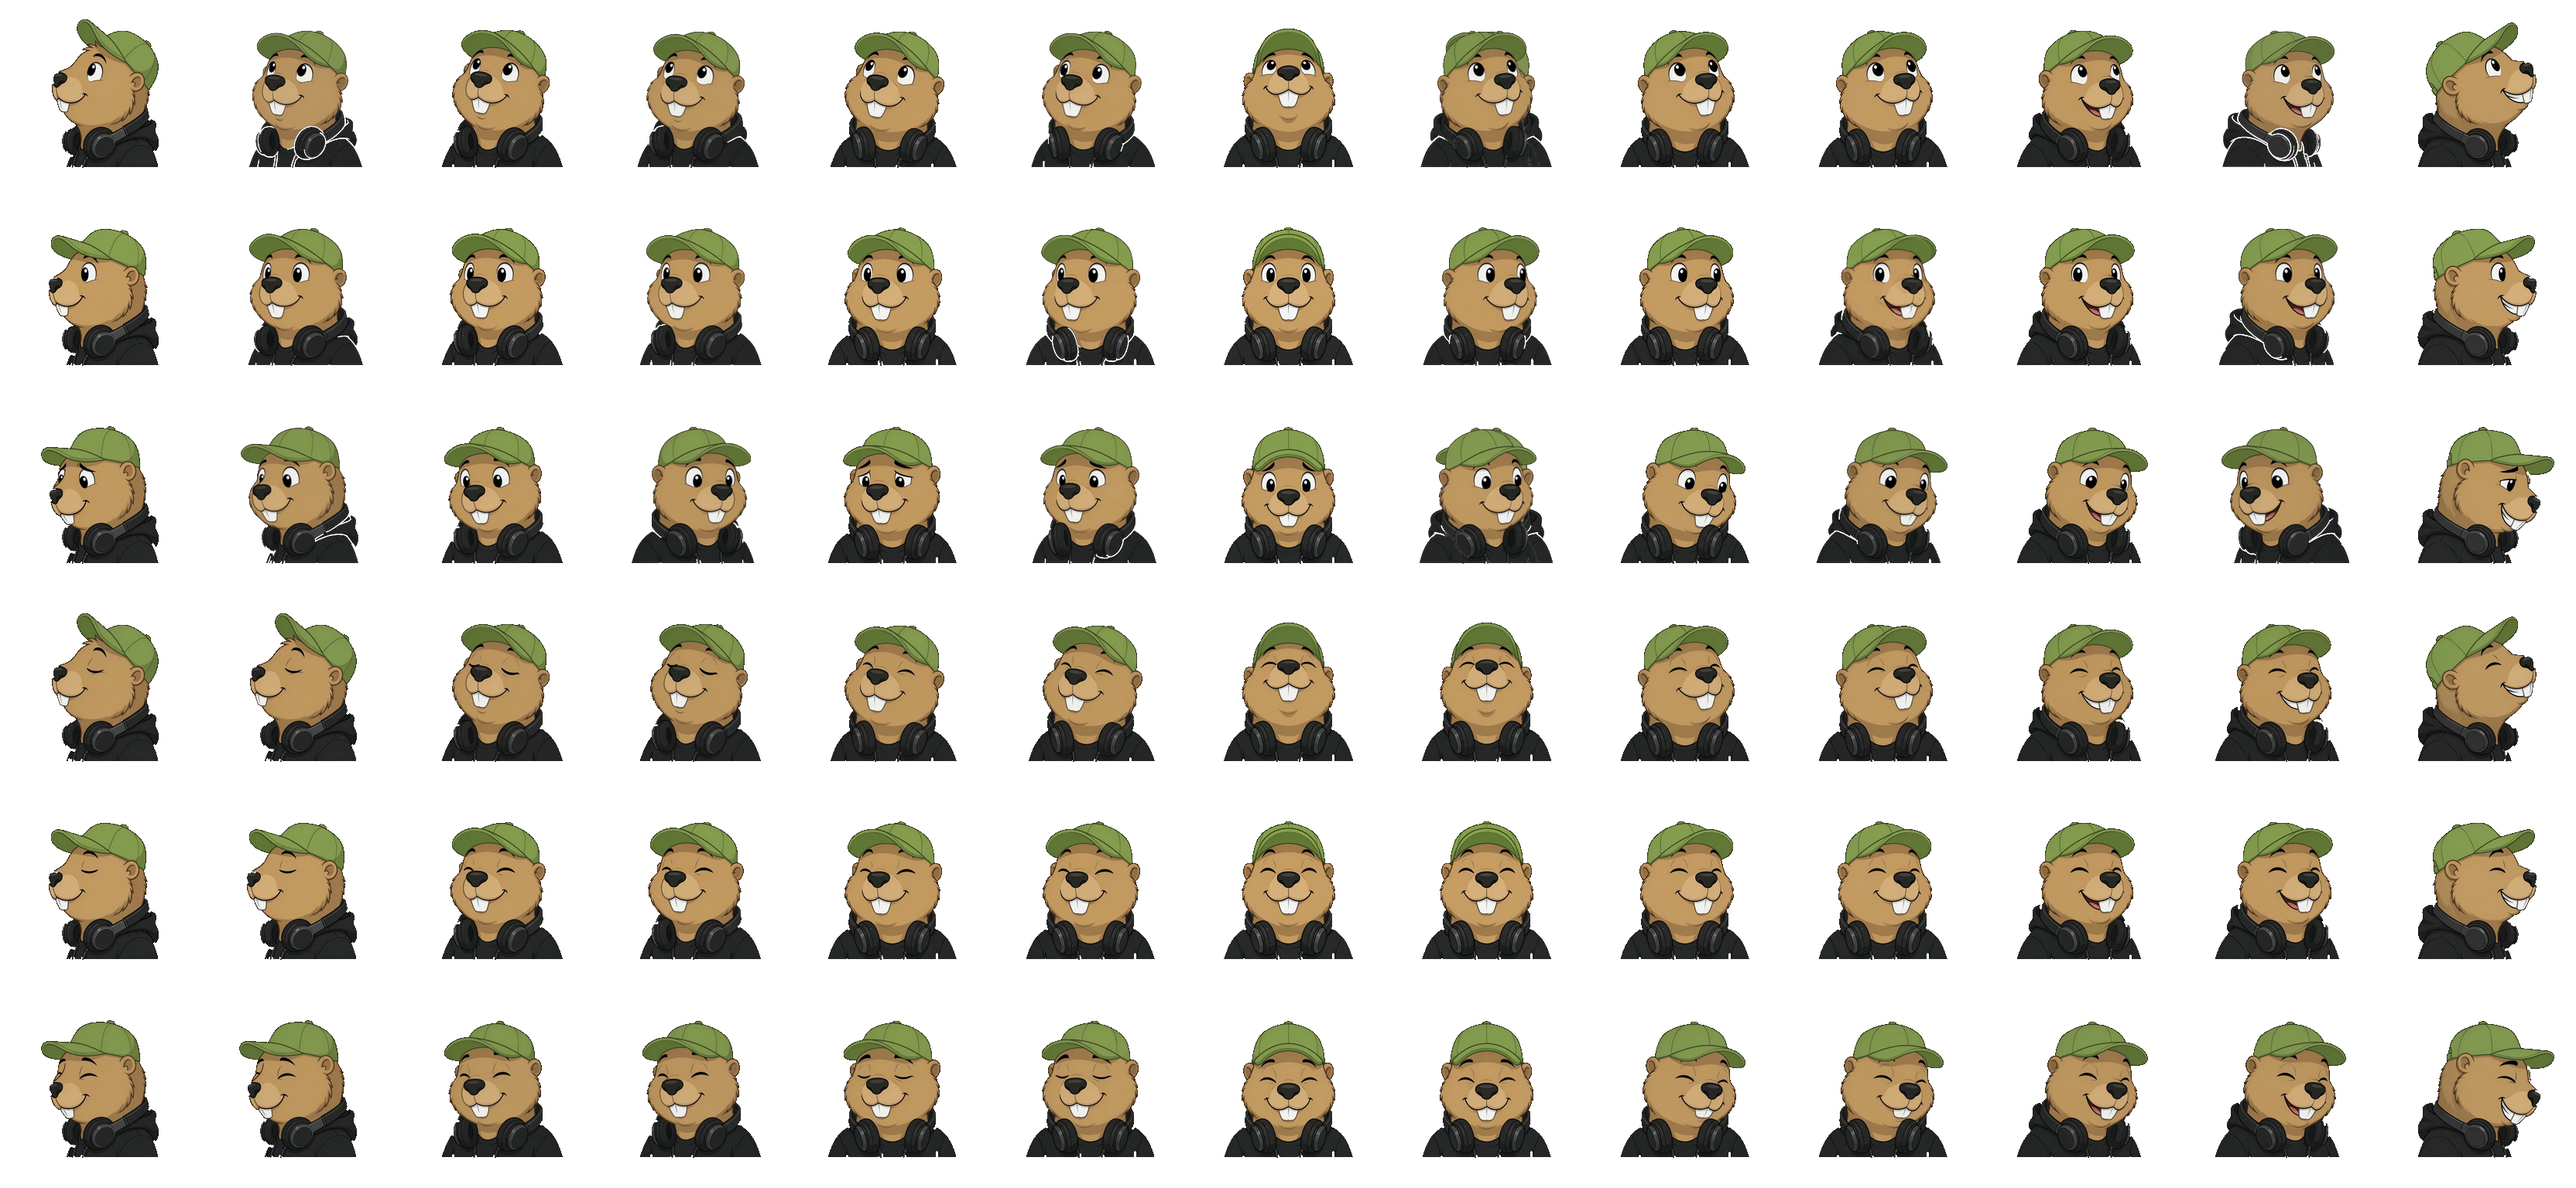
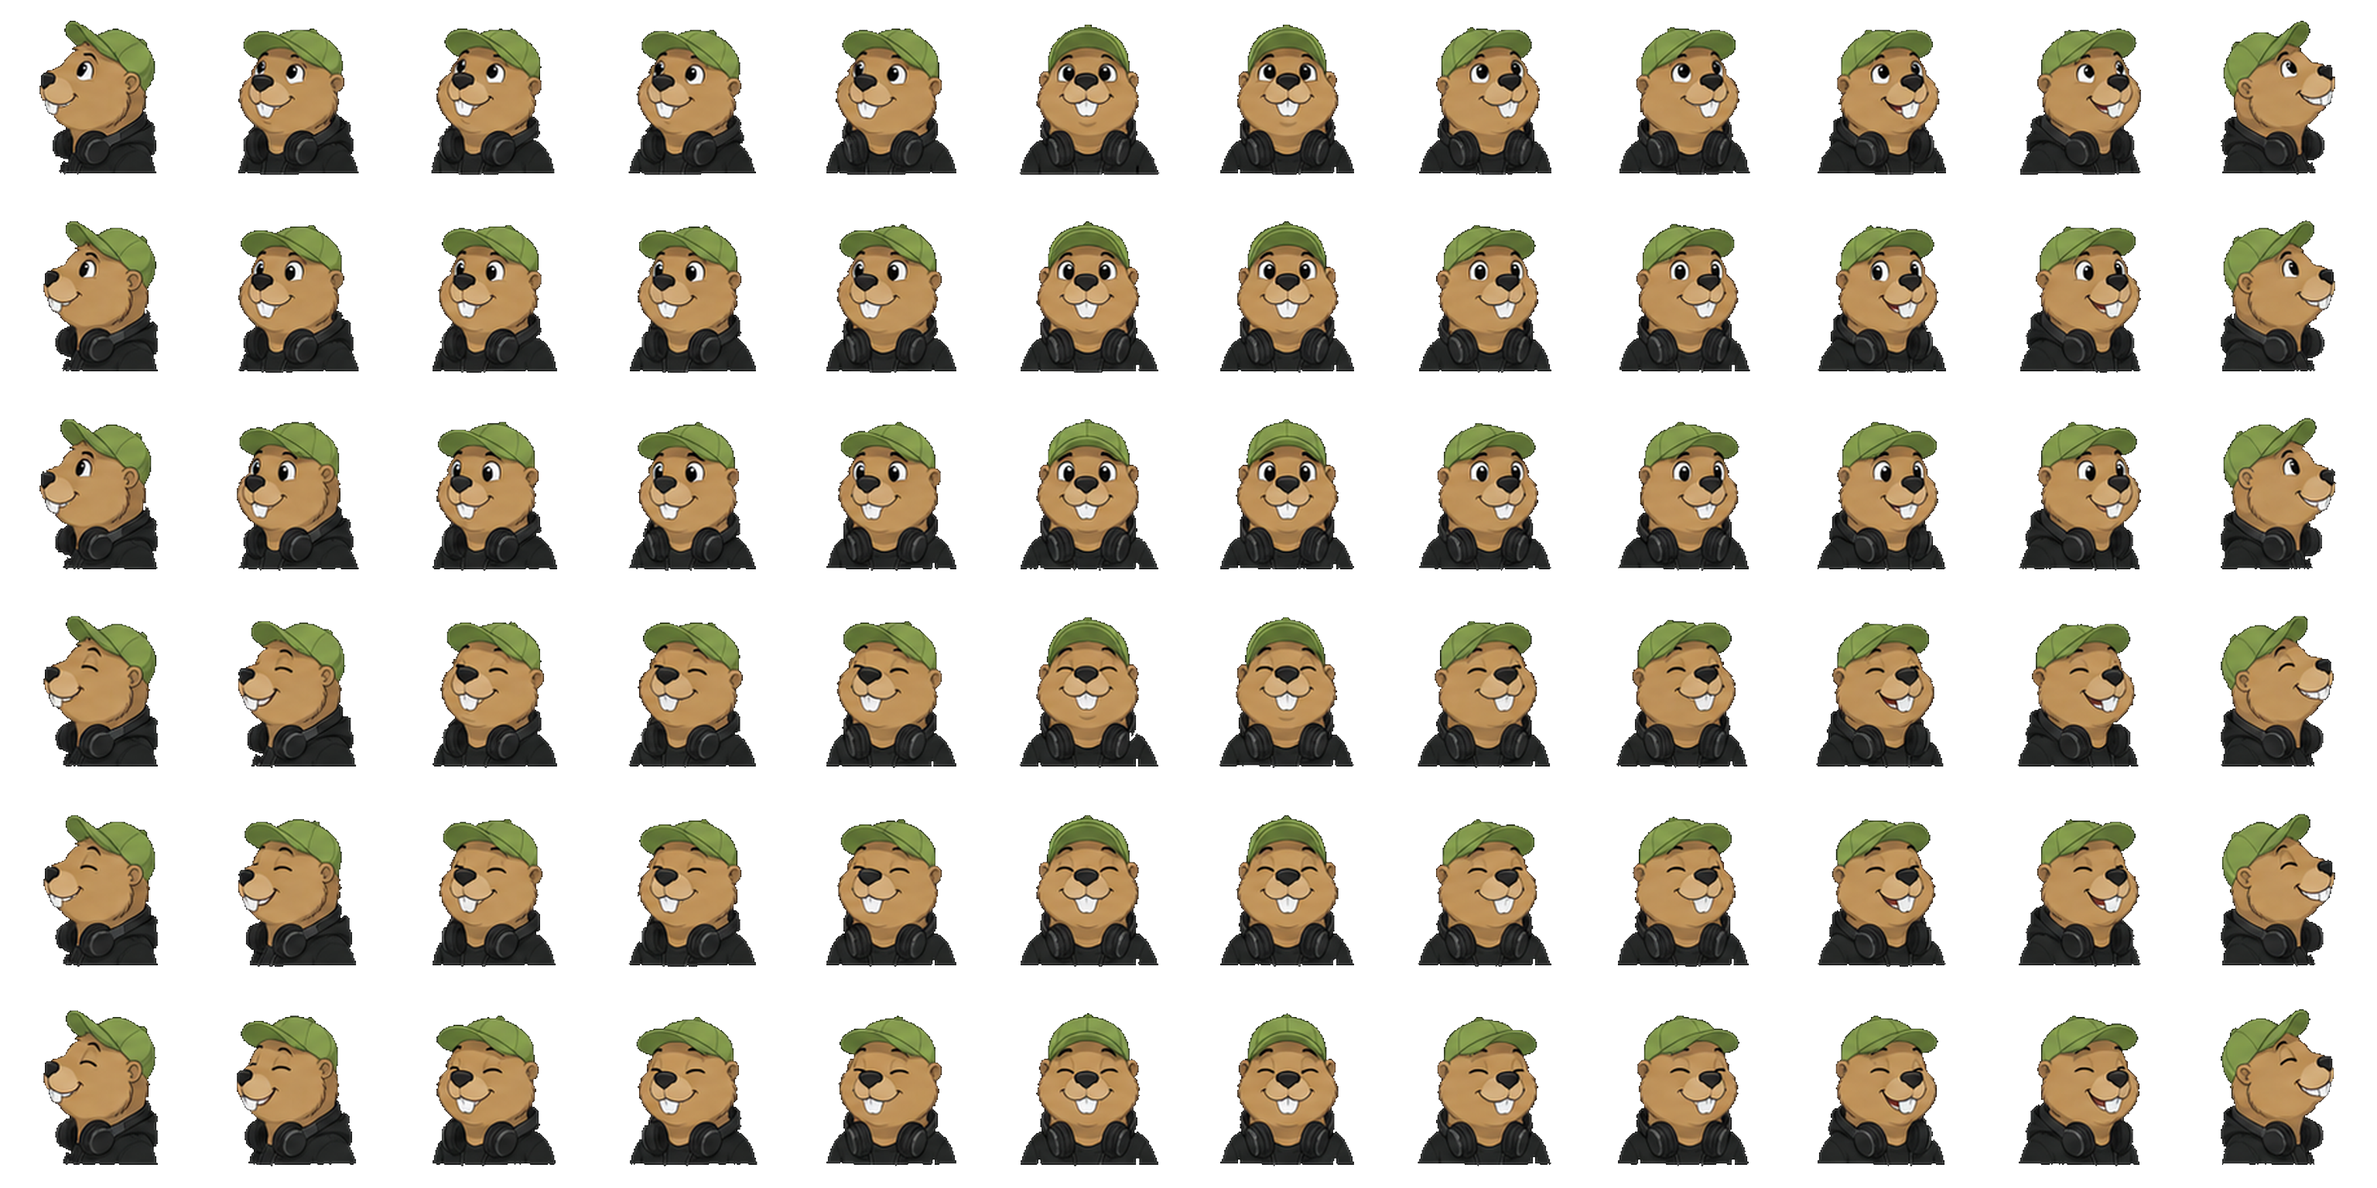
fix: 把新视线图集裁进 256 像素格
原图是带缝的 12×6，按备份的帧格尺寸拆成透明 256 格。量化改为 12×3，黑底抠掉。

diff --git a/studies/look-quantize/src/StudyView.tsx b/studies/look-quantize/src/StudyView.tsx
@@ -15,8 +15,8 @@ export function StudyView() {
           </h1>
           <p className="mt-4 max-w-lg text-[15px] leading-relaxed text-fg-muted">
             {locale === "en"
-              ? "Offset over radius, smooth, then quantize to 13×3. A blink is the other row of the same cell."
-              : "偏移除以半径，平滑，再量化到 13×3。眨眼是同一格的另一行。"}
+              ? "Offset over radius, smooth, then quantize to 12×3. A blink is the other row of the same cell."
+              : "偏移除以半径，平滑，再量化到 12×3。眨眼是同一格的另一行。"}
           </p>
         </div>
         <p className="text-[13px] leading-relaxed text-fg-subtle">
@@ -49,8 +49,8 @@ export function StudyView() {
               </span>
               <br />
               {locale === "en"
-                ? "Exponential smoothing, then round onto 13 columns and 3 rows."
-                : "指数平滑，再四舍五入到 13 列 3 行。"}
+                ? "Exponential smoothing, then round onto 12 columns and 3 rows."
+                : "指数平滑，再四舍五入到 12 列 3 行。"}
             </li>
             <li>
               <span className="font-medium text-fg">
@@ -66,7 +66,7 @@ export function StudyView() {
         <article className="min-w-0 overflow-hidden rounded-2xl border border-border bg-fg px-5 py-5 text-surface shadow-card sm:px-6">
           <p className="text-[12px] font-medium uppercase tracking-[0.12em] text-surface/45">lookToCell</p>
           <pre className="mt-3 overflow-x-auto font-mono text-[12px] leading-relaxed text-surface/85">{`function lookToCell(lookX, lookY) {
-  const col = round((clamp(lookX, -1, 1) * 0.5 + 0.5) * 12)
+  const col = round((clamp(lookX, -1, 1) * 0.5 + 0.5) * 11)
   const row = round((clamp(lookY, -1, 1) * 0.5 + 0.5) * 2)
   return { col, row }
 }`}</pre>

diff --git a/studies/look-quantize/src/lib/look.test.ts b/studies/look-quantize/src/lib/look.test.ts
@@ -38,8 +38,8 @@ describe("lookToCell", () => {
   });
 
   it("lands on the in-between yaw between center and a neighbor key", () => {
-    assert.deepEqual(lookToCell(-1 / 6, 0), { col: 5, row: 1 });
-    assert.deepEqual(lookToCell(1 / 6, 0), { col: 7, row: 1 });
+    assert.deepEqual(lookToCell(-1 / 11, 0), { col: 5, row: 1 });
+    assert.deepEqual(lookToCell(3 / 11, 0), { col: 7, row: 1 });
   });
 
   it("clamps look vectors beyond [-1, 1] to the same extreme cells", () => {

diff --git a/studies/look-quantize/src/lib/look.ts b/studies/look-quantize/src/lib/look.ts
@@ -1,4 +1,4 @@
-export const YAW_COLS = 13;
+export const YAW_COLS = 12;
 export const PITCH_ROWS = 3;
 export const CELL = 256;
 

diff --git a/studies/look-quantize/idea.en.md b/studies/look-quantize/idea.en.md
@@ -8,10 +8,10 @@ A face that looks at the pointer cannot rotate continuously if the art is an atl
 
 ## The rule
 
-Divide the pointer offset from the origin by the radius to get a look vector in `[-1, 1]`. If the length is over 1, clamp it onto the circle. Each frame exponentially smooths toward that vector, then quantizes to a 13×3 grid (one unique yaw in-between between each 7×3 key):
+Divide the pointer offset from the origin by the radius to get a look vector in `[-1, 1]`. If the length is over 1, clamp it onto the circle. Each frame exponentially smooths toward that vector, then quantizes to a 12×3 grid:
 
 ```
-col = round((lookX * 0.5 + 0.5) * 12)
+col = round((lookX * 0.5 + 0.5) * 11)
 row = round((lookY * 0.5 + 0.5) * 2)
 ```
 

diff --git a/writing/notes/land-on-a-cell.en.md b/writing/notes/land-on-a-cell.en.md
@@ -7,4 +7,4 @@ related: look-quantize
 
 An atlas only has discrete angles. Rotating with the pointer invents frames that are not there. Jumping to the farthest cell on every move makes nearby motion flicker.
 
-Divide the offset by the radius, clamp onto the circle, smooth, then land on a 13×3 cell. Center is the middle cell. A hop cuts; it does not dissolve. A blink does not change the look vector — it is the other row of the same cell.
+Divide the offset by the radius, clamp onto the circle, smooth, then land on a 12×3 cell. Center is the middle cell. A hop cuts; it does not dissolve. A blink does not change the look vector — it is the other row of the same cell.

diff --git a/studies/look-quantize/idea.md b/studies/look-quantize/idea.md
@@ -8,10 +8,10 @@
 
 ## 规则
 
-把指针相对原点的偏移除以半径，得到 `[-1, 1]` 的看向向量；长度超过 1 就夹到圆上。每一帧用指数平滑追这个向量，再量化到 13×3 格子（7×3 关键格之间各插一档独立偏航）：
+把指针相对原点的偏移除以半径，得到 `[-1, 1]` 的看向向量；长度超过 1 就夹到圆上。每一帧用指数平滑追这个向量，再量化到 12×3 格子：
 
 ```
-col = round((lookX * 0.5 + 0.5) * 12)
+col = round((lookX * 0.5 + 0.5) * 11)
 row = round((lookY * 0.5 + 0.5) * 2)
 ```
 

diff --git a/writing/notes/land-on-a-cell.md b/writing/notes/land-on-a-cell.md
@@ -7,4 +7,4 @@ related: look-quantize
 
 图集只有离散角度。按指针连续转，中间帧是捏的；指针一动就跳到最远格，近处又会抖。
 
-把偏移除以半径，超过圆就夹住，平滑后再落到 13×3。中心是中间那一格。换格硬切，不叠化。眨眼不改看向，只换同一格的另一行。
+把偏移除以半径，超过圆就夹住，平滑后再落到 12×3。中心是中间那一格。换格硬切，不叠化。眨眼不改看向，只换同一格的另一行。

diff --git a/studies/look-quantize/AGENTS.md b/studies/look-quantize/AGENTS.md
@@ -23,7 +23,7 @@ The lab mounts `StudyView` at `/s/look-quantize`.
 
 - `idea.md` / `study.json` — quantize, do not invent a continuous turn
 - `src/lib/look.ts` — clamp, smooth, lookToCell, blink row (no DOM)
-- `src/assets/look-atlas.png` — 13×3 look cells plus 13×3 blink rows
+- `src/assets/look-atlas.png` — 12×3 look cells plus 12×3 blink rows
 - `src/StageView.tsx` — `kind=center|left|right|up|blink`
 
 ## Rules

diff --git a/studies/look-quantize/README.md b/studies/look-quantize/README.md
@@ -15,4 +15,4 @@ npm run dev
 
 在 Lab 里打开：`make dev` → `http://127.0.0.1:5173/s/look-quantize`。
 
-移动指针，脸应落到离散格子，而不是连续转头。打开「显示格子」能看见 13×3 的颗粒。换格硬切，不叠化。
+移动指针，脸应落到离散格子，而不是连续转头。打开「显示格子」能看见 12×3 的颗粒。换格硬切，不叠化。
